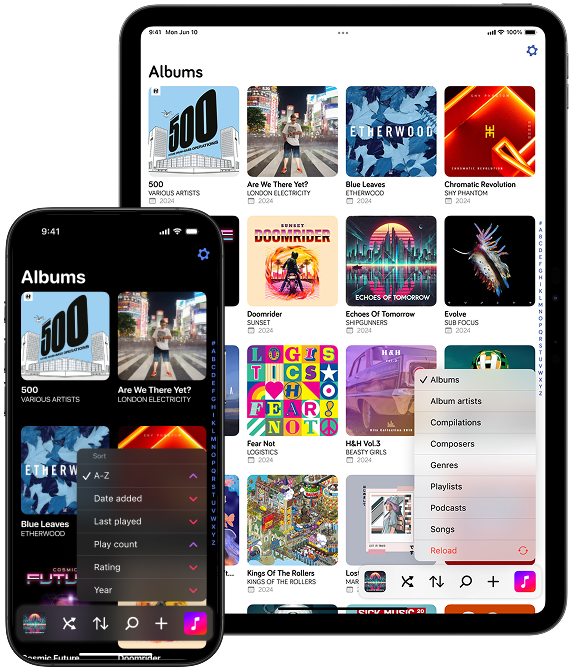
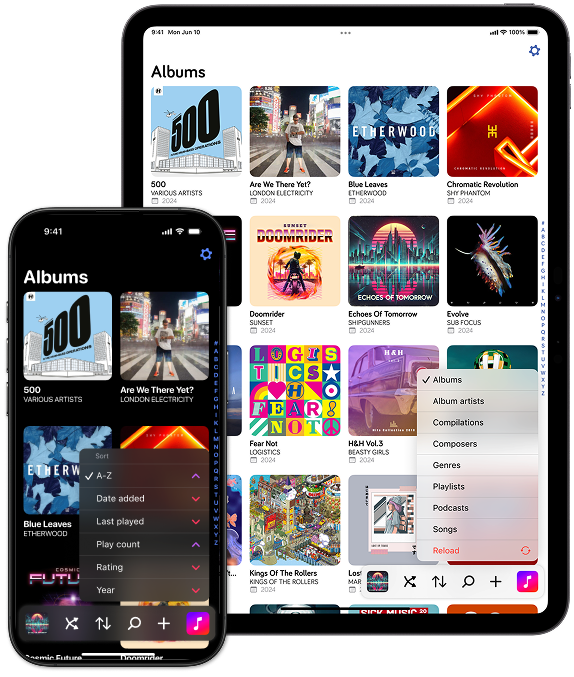
Update app store badges, app store link, and harken screenshots

diff --git a/index.html b/index.html
@@ -78,8 +78,9 @@
               <p class="description">Ut enim ad minim veniam, quis nostrud exercitation ullamco laboris nisi ut aliquip ex ea commodo consequat.</p>
             </div>
             <div class="app-buttons">
-              <a href="http://apple.co/1FbUuwn" class="app-store-button">
-                <img src="https://developer.apple.com/assets/elements/badges/download-on-the-app-store.svg" alt="Download on the App Store">
+              <a href="https://apple.co/4q3AeKI" class="app-store-button">
+                <img src="images/appstorebadge-black.svg" alt="Download on the App Store" class="app-store-badge light-mode">
+                <img src="images/appstorebadge-white.svg" alt="Download on the App Store" class="app-store-badge dark-mode">
               </a>
               <a href="#" class="learn-more">Learn more</a>
             </div>

diff --git a/styles.css b/styles.css
@@ -241,6 +241,21 @@ nav a {
   display: block;
 }
 
+/* Show/hide App Store badges based on color scheme */
+.app-store-badge.dark-mode {
+  display: none;
+}
+
+@media (prefers-color-scheme: dark) {
+  .app-store-badge.light-mode {
+    display: none;
+  }
+  
+  .app-store-badge.dark-mode {
+    display: block;
+  }
+}
+
 .learn-more {
   padding: 0 16px;
   border: 2px solid var(--color-border-indigo);
@@ -278,7 +293,6 @@ nav a {
   width: 100%;
   max-width: 100%;
   display: block;
-  filter: drop-shadow(0 2px 8px rgba(0, 0, 0, 0.3));
 }
 
 @media (min-width: 1105px) {
